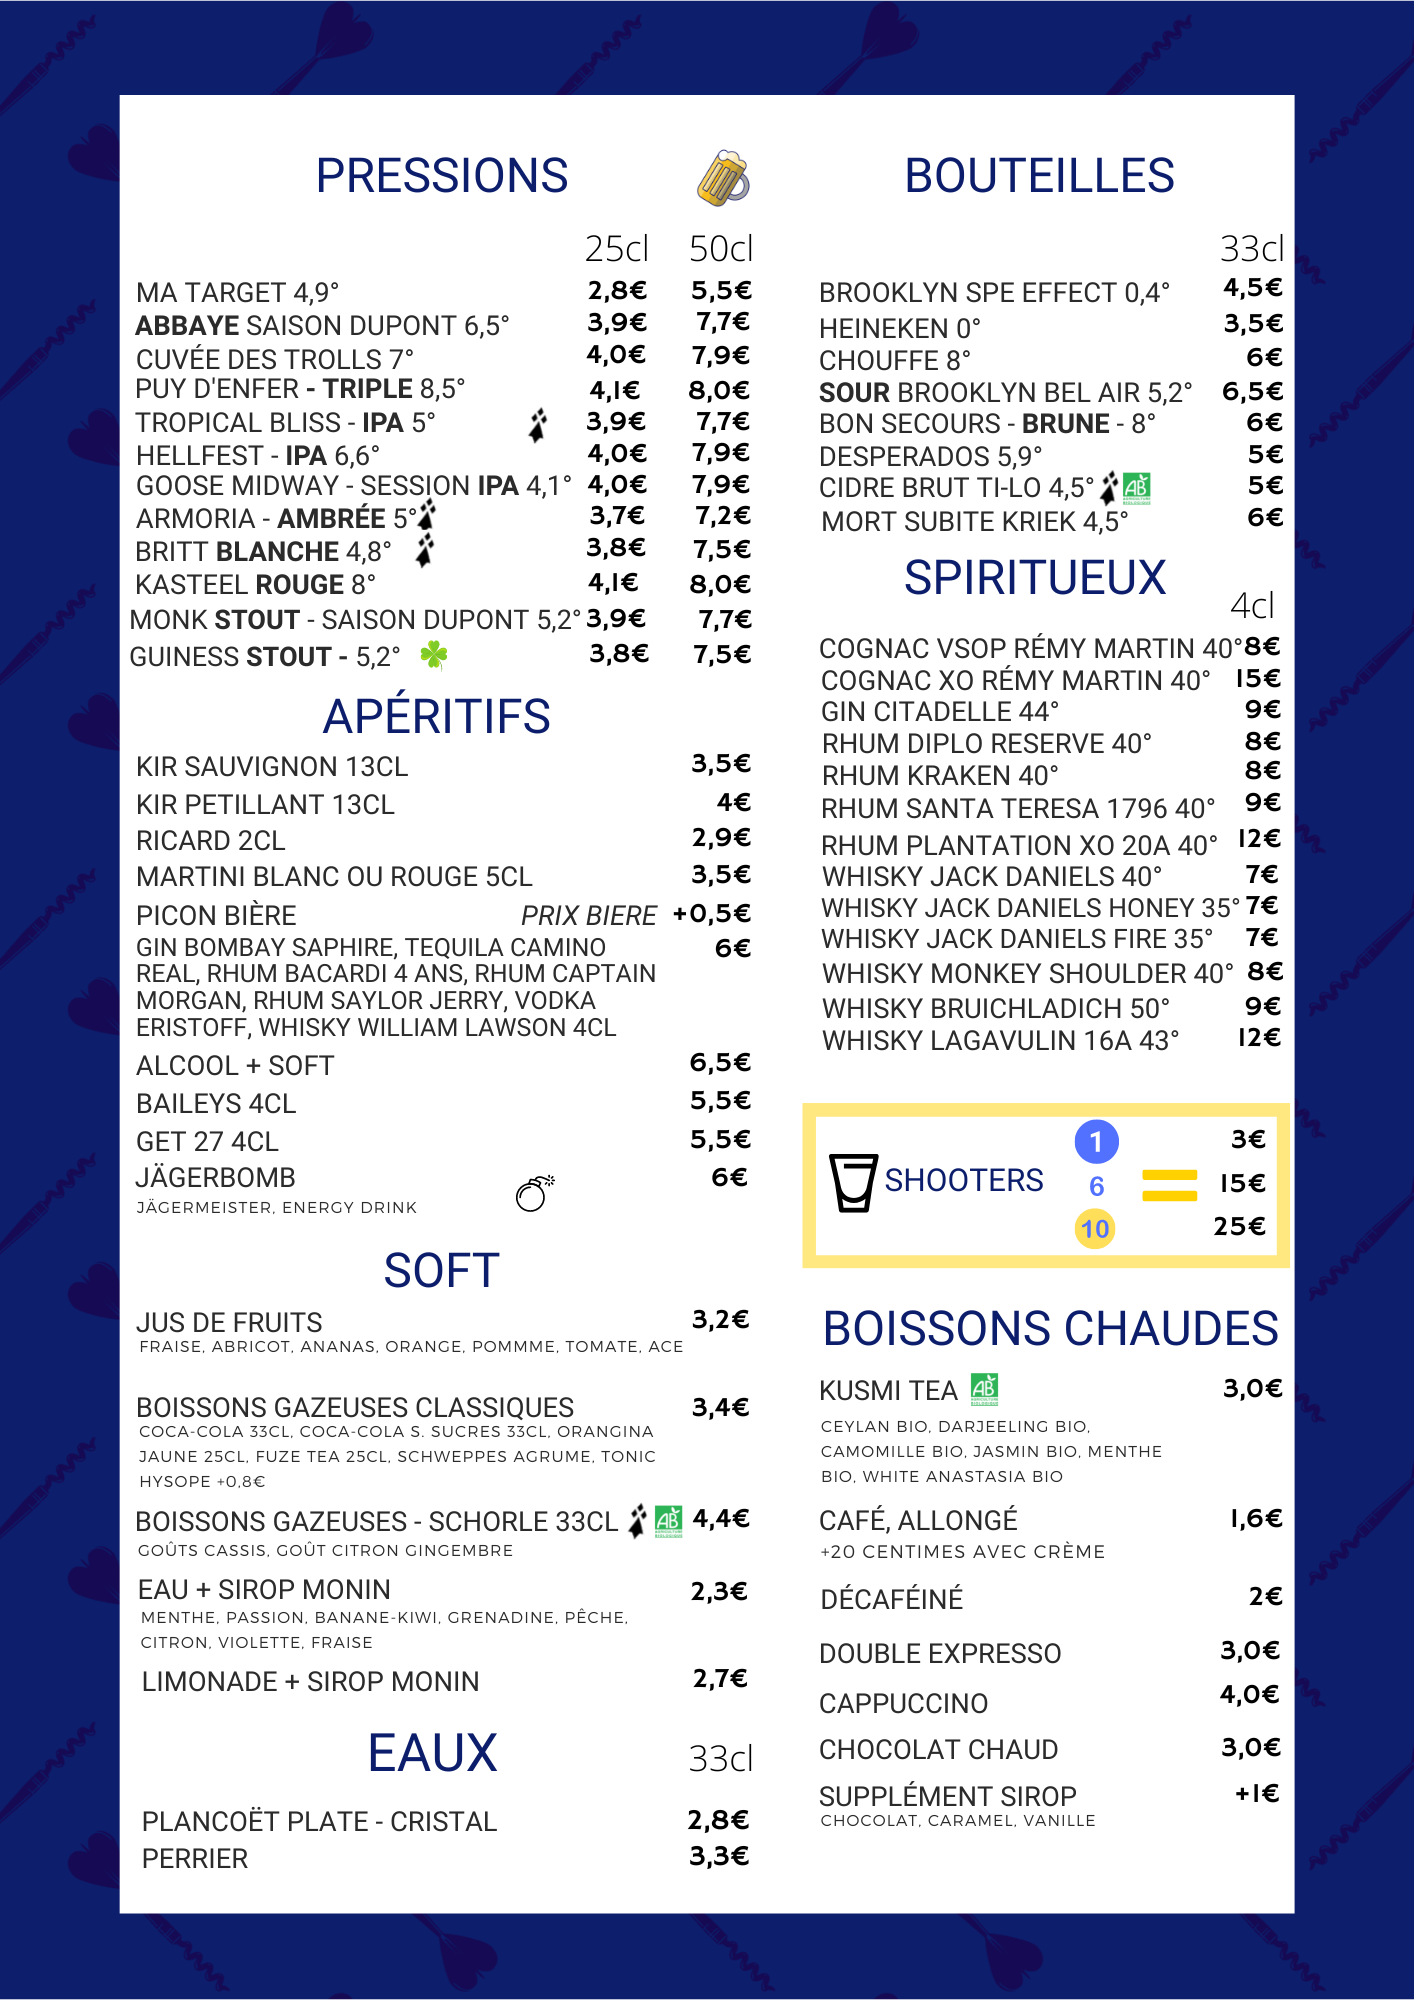
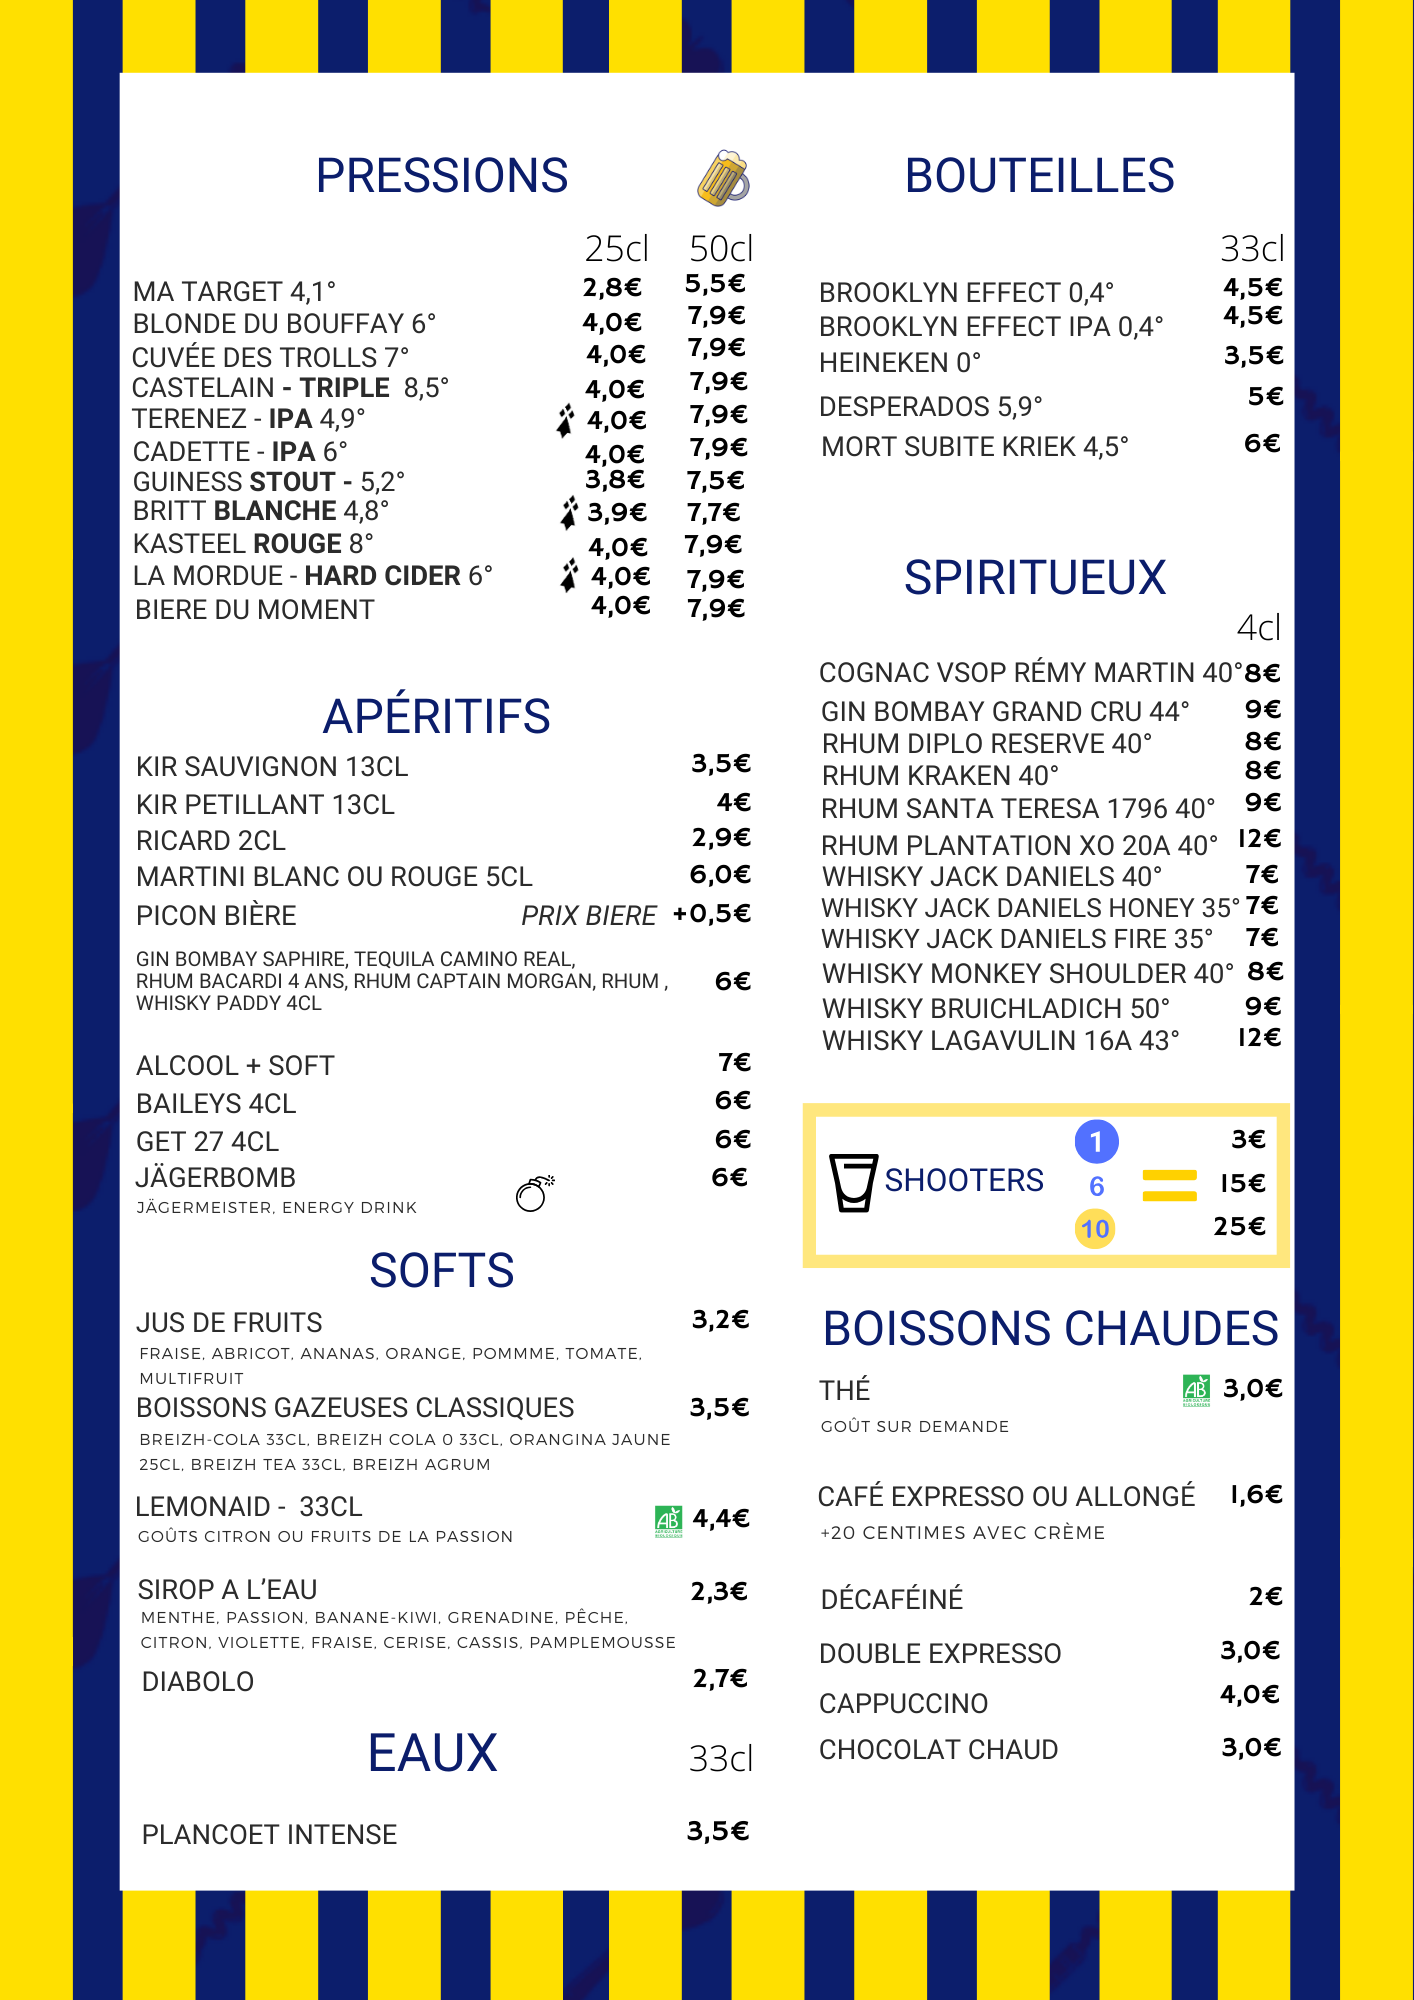
enleve midi vannes

diff --git a/vannes/index.html b/vannes/index.html
@@ -9,7 +9,6 @@
 	<link rel="stylesheet" href="../public/fonts.css" type="text/css" charset="utf-8" />
 	<link rel="preconnect" href="https://fonts.gstatic.com">
   <meta http-equiv="Content-Security-Policy" content="upgrade-insecure-requests">
-  <meta http-equiv="Permissions-Policy" content="payment=(self 'https://sdk.zenchef.com')">
 	<link href="https://fonts.googleapis.com/css2?family=Bebas+Neue&family=PT+Mono&family=Teko:wght@300&family=Vidaloka&family=Yellowtail&family=PT+Sans+Caption&display=swap" rel="stylesheet">
   <link rel="stylesheet" href="https://unpkg.com/flickity@2/dist/flickity.min.css">
   <link rel="icon" type="image/png" href="../public/img/commun/matargetLogo.png" sizes="32x32">
@@ -239,22 +238,13 @@
 		</div> -->
 
         <div id="menuContainer">
-          <div class="menu1" >
-        		<div class="menuDetail1">
-                <img src="../public/img/vannes/image-menu-midi.jpeg" onclick='location.href="https://basilyk.app/l/oUYikcaz"' class="responsiveMenu"/>
-              <div id="buttonFood">
-                 <div class="texteButton2">
-                     <button class="itemButton" onclick='location.href="https://basilyk.app/l/oUYikcaz"'>La carte du midi</button>
-                 </div>
-              </div>
-        		</div>
-        	</div>
+
         	<div class="menu1" >
         		<div class="menuDetail1">
                 <img src="../public/img/vannes/image-menu-bar.jpeg" onclick='location.href="https://basilyk.app/l/MQBEsfn6"' class="responsiveMenu"/>
               <div id="buttonFood">
                  <div class="texteButton2">
-                     <button class="itemButton" onclick='location.href="https://basilyk.app/l/MQBEsfn6"'>La carte du soir</button>
+                     <button class="itemButton" onclick='location.href="https://basilyk.app/l/MQBEsfn6"'>La carte</button>
                  </div>
               </div>
         		</div>
@@ -340,11 +330,10 @@
 	        				Nos horaires
 	        			</h4>
 	        			<h5 class="texteFooter">
-                  16h-00h le lundi <br>
-	        				12h-00h du mardi au jeudi <br>
-                  12h-01h le vendredi<br>
-                  14h-01h le samedi <br>
-                  dimanche
+                  17h-00h lundi et mardi<br>
+	        				16h-00h mercredi et jeudi <br>
+                  14h-01h vendredi et samedi<br>
+                  14h-23h dimanche <br>
 	        			</h5>
         			</div>
         		</div>
@@ -372,16 +361,7 @@
     <script src="https://unpkg.com/flickity@2/dist/flickity.pkgd.min.js"></script>
     <script type="text/javascript" src="../public/js/index.js"></script>
 
-<script>
-  ;(function (d, s, id) {
-    const el = d.getElementsByTagName(s)[0]
-    if (d.getElementById(id) || el.parentNode == null) return
-    var js = d.createElement(s)
-    js.id = id
-    js.src = 'https://sdk.zenchef.com/v1/sdk.min.js'
-    el.parentNode.insertBefore(js, el)
-  })(document, 'script', 'zenchef-sdk')
-</script>
+
 <div class="zc-widget-config"
    data-restaurant="381099"
    data-open="2000"></div>
